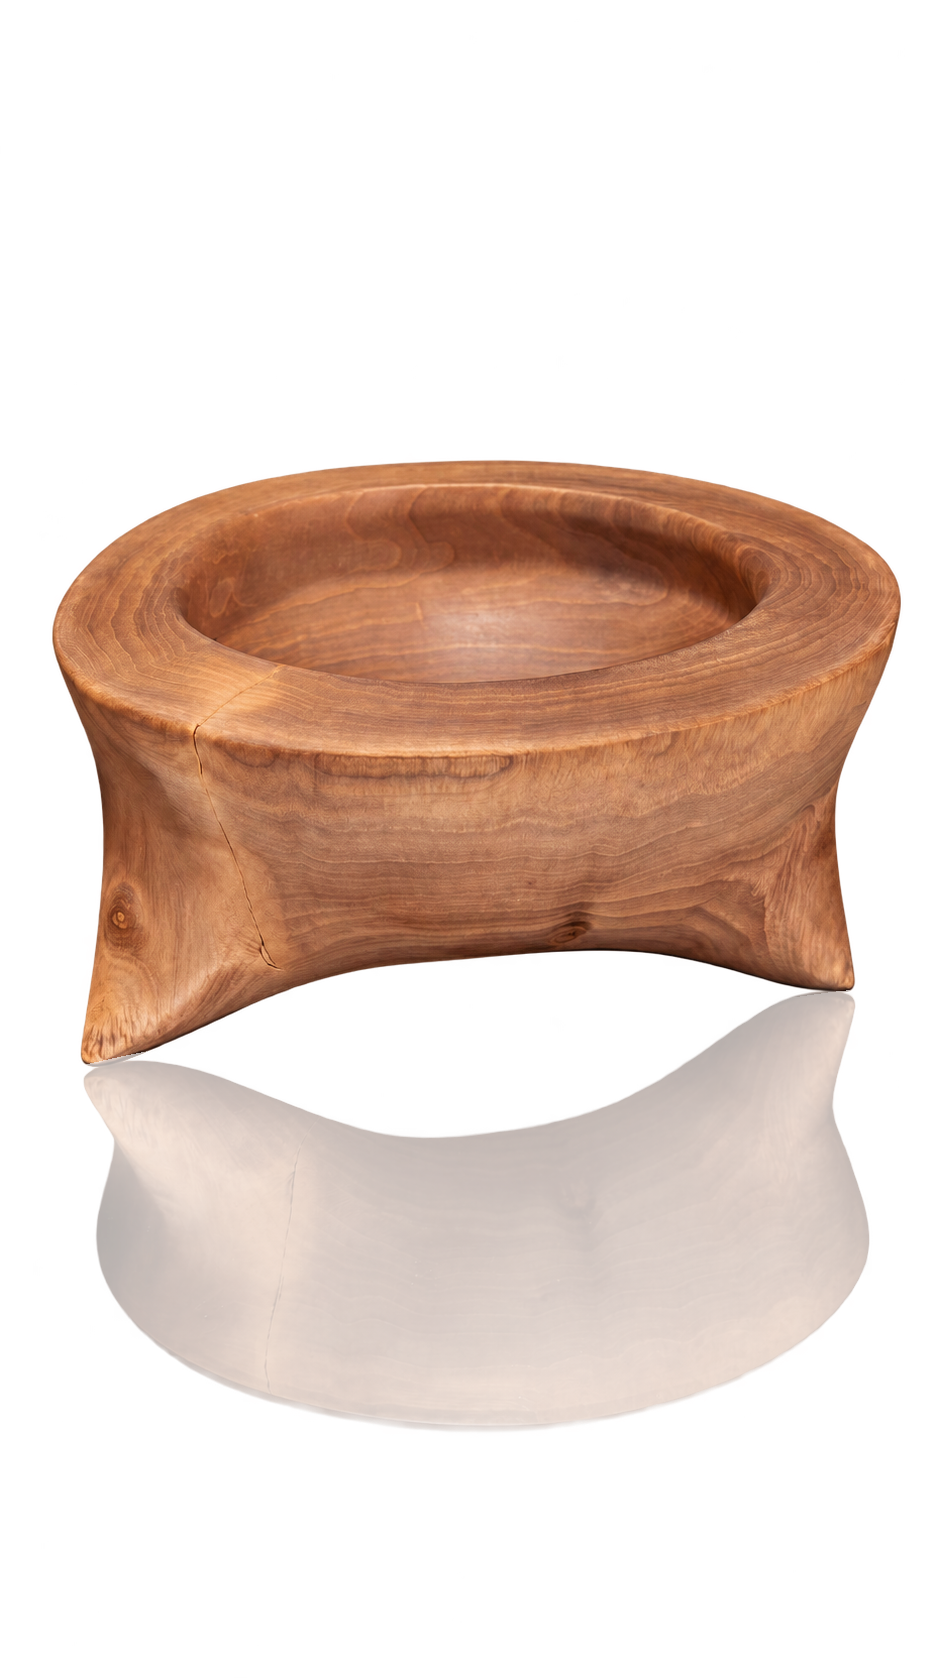
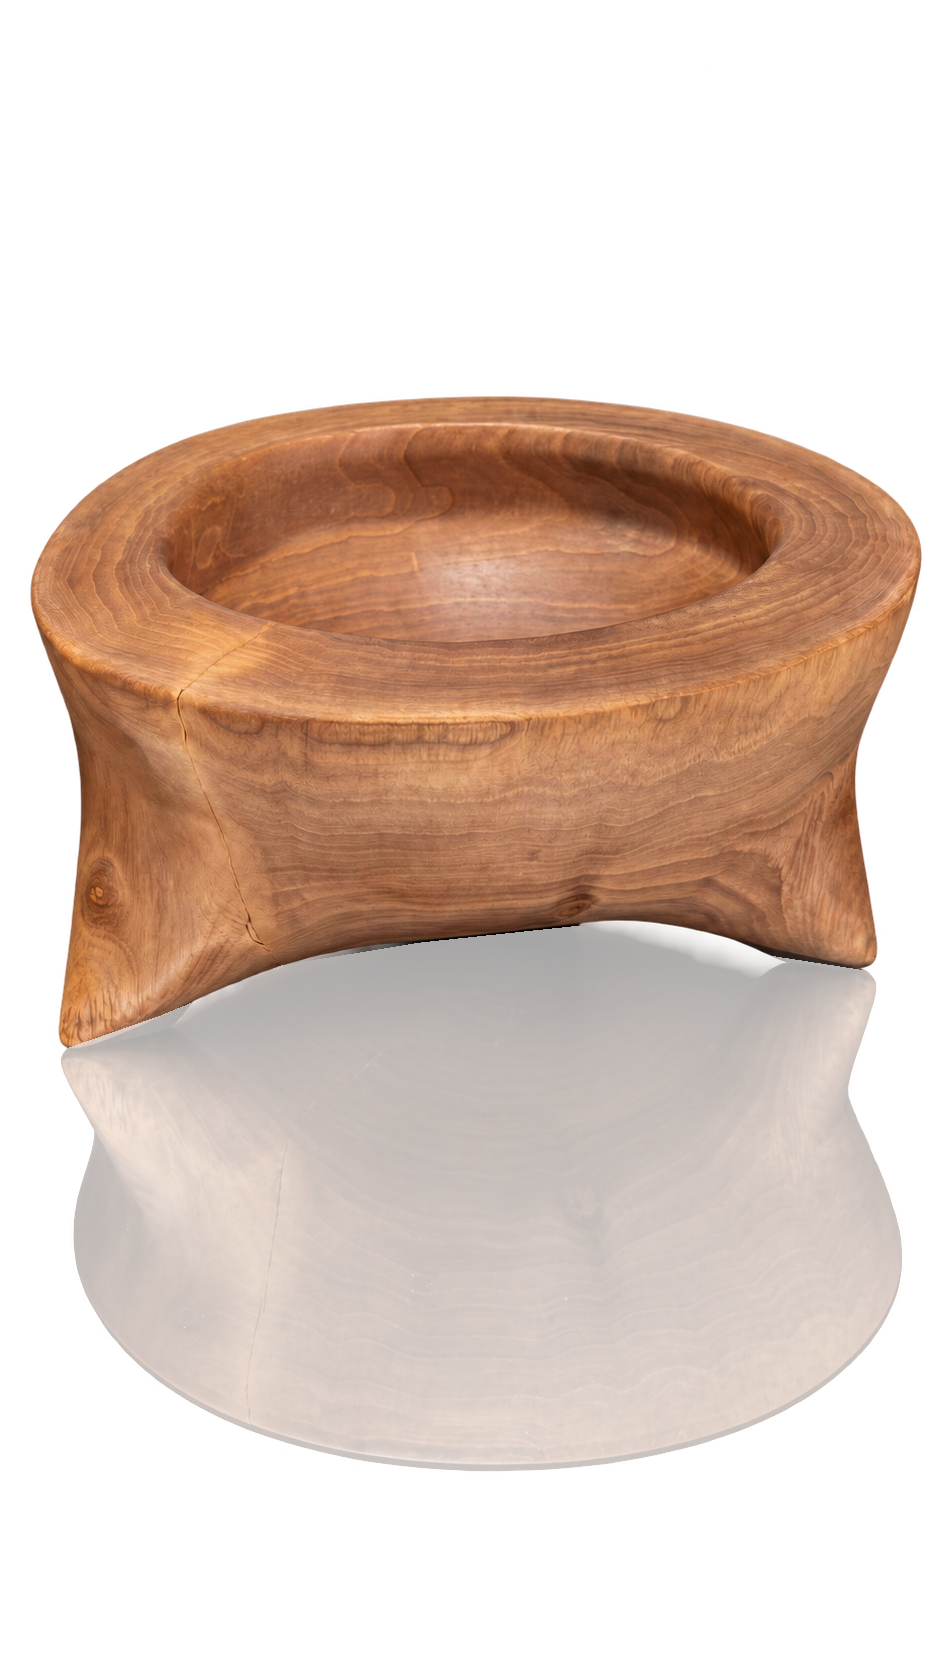
Restore full model two reflection and enlarge product labels

Changed region(s): [[0.0309, 0.2169, 0.9904, 0.8987]]

diff --git a/css/typography-draft.css b/css/typography-draft.css
@@ -141,12 +141,12 @@ html main section.model-section {
 .model-card { min-width:0; margin:0; text-align:center; }
 .model-card img { display:block; width:100%; height:clamp(230px,32svh,360px); object-fit:contain; object-position:center bottom; }
 
-.model-card figcaption { margin-top:4px; font-family:'DM Sans',sans-serif; font-weight:400; font-size:11px; letter-spacing:.16em; color:#625e55; }
+.model-card figcaption { margin-top:4px; font-family:'DM Sans',sans-serif; font-weight:400; font-size:13px; letter-spacing:.16em; color:#625e55; }
 @media(max-width:767px) {
  html main section.model-section { min-height:calc(100cqw * 1600 / 788) !important; padding:36px 5%; }
  .model-grid { grid-template-columns:repeat(2,minmax(0,1fr)); gap:28px 6%; }
  .model-card img { height:clamp(170px,52vw,340px); aspect-ratio:auto; object-fit:contain; }
- .model-card figcaption { margin-top:4px; font-size:10px; letter-spacing:.12em; }
+ .model-card figcaption { margin-top:4px; font-size:12px; letter-spacing:.12em; }
 }
 @media (min-width: 768px) {
  .scene-hero .photo-copy, .scene-texture .photo-copy, .scene-pleasure .photo-copy { left: 12%; }

diff --git a/docs/DESIGN.md b/docs/DESIGN.md
@@ -3,3 +3,5 @@
 Preserve the root V1 identity: natural wood photography, warm stone and cream tones, Cormorant Garamond headings, restrained DM Sans copy, generous negative space and quiet interactions. Use existing assets and avoid invented product variants, prices or availability. Design new pages as part of the same site, with localized navigation and equivalent EN/TR routes.
 
 Preview architecture: /en/home, /en/gallery, /en/shop and /tr/ana-sayfa, /tr/galeri, /tr/magaza. Main production must remain unchanged until the user approves merging.
+
+All HAWAN mortars have three legs. Preserve photographed leg geometry, recessed visible legs, negative spaces and reflections in all product cutouts. Never invent hidden legs or erase visible wooden parts as background.
